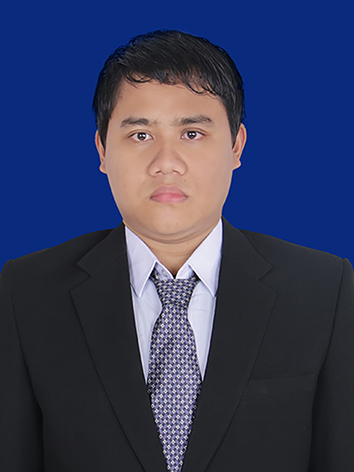
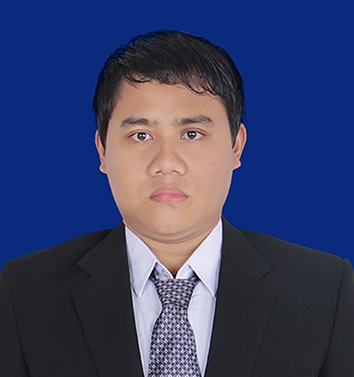
initial commit

Changed region(s): [[0.0, 0.0584, 1.0, 1.0], [0.8701, 0.9337, 0.9011, 1.0], [0.0932, 0.8753, 0.1243, 0.9337]]

diff --git a/index.html b/index.html
@@ -98,7 +98,7 @@
             <div class="profile">
               <div class="show">
               <div class="profile-icon">
-                <img src="./view/avatar.png">
+                <img src="./view/tody_j12.jpg">
               </div>
               <p class="paragraph">Tody Maulifa</p>
               <div class="btn-wrapper">

diff --git a/style/responsive.css b/style/responsive.css
@@ -80,11 +80,13 @@
             
         .isislogan h5 {
             font-size: 15px;
+            padding: 20px 0px 20px 0px;
         }
         .isislogan h5:hover {
             position: relative;
             font-size: 20px;
             font-weight: 600;
+            
         }
     
         .isislogan h6 {
